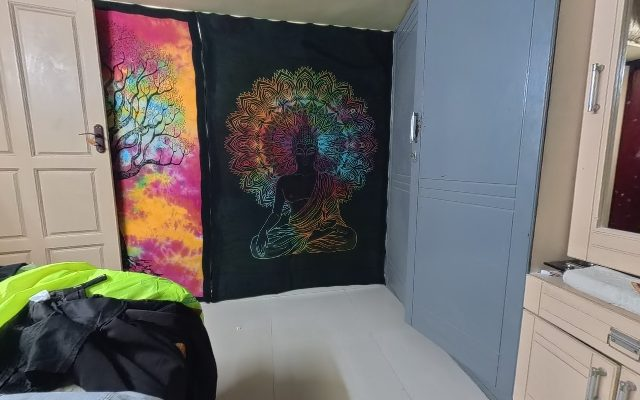
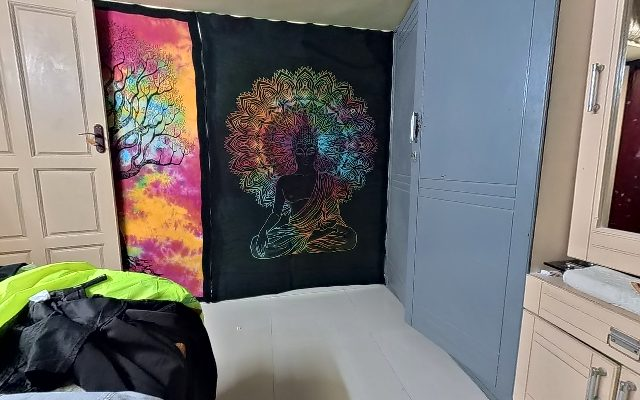
Updated: Images enhance function

diff --git a/scripts/panorama/build_panoramas.py b/scripts/panorama/build_panoramas.py
@@ -1,4 +1,5 @@
-"""Build every web panorama asset from the stitched Insta360 360° JPG exports.
+"""Build every web panorama asset from the stitched Insta360 360° JPG exports,
+with a seam-safe enhancement pass (levels, shadow lift, clarity, sharpening).
 
 Usage (from the repo root):
     python3 -m venv .venv-pano && .venv-pano/bin/pip install -r scripts/panorama/requirements.txt
@@ -44,6 +45,49 @@ def perspective(equi, yaw, pitch, hfov, w, h):
     return cv2.remap(equi, mx, my, cv2.INTER_CUBIC, borderMode=cv2.BORDER_WRAP)
 
 
+def wrap_pad(img, p):
+    """Pad left/right by wrapping round the ±180° seam, top/bottom by mirroring,
+    so every filter sees continuous image data and the seam stays invisible."""
+    x = np.concatenate([img[:, -p:], img, img[:, :p]], axis=1)
+    return cv2.copyMakeBorder(x, p, p, 0, 0, cv2.BORDER_REFLECT)
+
+
+def enhance(img):
+    """Real-estate finish on the stitched export (no content changes):
+    1. levels: black/white points from the 0.3/99.7 percentiles, so dim
+       indoor shots get true whites without clipping lamps or windows;
+    2. gentle shadow lift (midtone curve that leaves highlights alone);
+    3. clarity: large-radius local contrast for depth;
+    4. edge sharpening with a noise threshold, so flat walls stay clean and
+       overshoot is limited to avoid halos;
+    5. +12% vibrance, weighted towards muted colours (skin/wood stay natural).
+    Every filter is position-independent and runs on wrap-padded data."""
+    p = 256
+    x = wrap_pad(img, p).astype(np.float32) / 255.0
+    lab = cv2.cvtColor(x, cv2.COLOR_BGR2LAB)  # L in 0..100, a/b roughly ±100
+    L = lab[..., 0]
+
+    core = L[p:-p, p:-p]
+    lo, hi = np.percentile(core, [0.3, 99.7])
+    L = np.clip((L - lo) / max(hi - lo, 1e-3) * 97 + 1.5, 0, 100)
+
+    t = L / 100
+    L = 100 * (t + 0.22 * t * (1 - t) ** 2)  # lifts shadows/low mids only
+
+    L = L + 0.22 * (L - cv2.GaussianBlur(L, (0, 0), 40))  # clarity
+
+    d = L - cv2.GaussianBlur(L, (0, 0), 1.4)
+    d = np.sign(d) * np.maximum(np.abs(d) - 0.6, 0)  # soft noise threshold
+    L = L + np.clip(0.9 * d, -6, 6)  # cap overshoot so edges don't halo
+    lab[..., 0] = np.clip(L, 0, 100)
+
+    chroma = np.hypot(lab[..., 1], lab[..., 2])
+    lab[..., 1:] *= (1 + 0.12 * np.clip(1 - chroma / 60, 0, 1))[..., None]
+
+    out = cv2.cvtColor(lab, cv2.COLOR_LAB2BGR)[p:-p, p:-p] * 255.0
+    return np.clip(out + 0.5, 0, 255).astype(np.uint8)
+
+
 def main():
     src_dir = os.path.join(ROOT, 'assets', 'jpg assets')
     out_dir = os.path.join(ROOT, 'public', 'panoramas')
@@ -51,11 +95,14 @@ def main():
     jpg = lambda q: [cv2.IMWRITE_JPEG_QUALITY, q, cv2.IMWRITE_JPEG_PROGRESSIVE, 1]
     for s in SCENES:
         equi = cv2.imread(os.path.join(src_dir, s['file']))
+        if equi is None:
+            print(f"WARNING: {s['file']} not found in {src_dir}; keeping existing {s['id']} images")
+            continue
         H, W = equi.shape[:2]
         assert W == 2 * H, f"{s['file']} is not a 2:1 equirectangular image"
         print('processing', s['file'], f'{W}x{H}')
         # Yaw is a pure horizontal wrap of an equirectangular image: no resampling.
-        equi = np.roll(equi, round(s['yaw'] / 360 * W), axis=1)
+        equi = enhance(np.roll(equi, round(s['yaw'] / 360 * W), axis=1))
         cv2.imwrite(os.path.join(out_dir, f"{s['id']}.jpg"), equi, jpg(95))
         cv2.imwrite(os.path.join(out_dir, f"{s['id']}-4k.jpg"),
                     cv2.resize(equi, (4096, 2048), interpolation=cv2.INTER_AREA), jpg(88))
